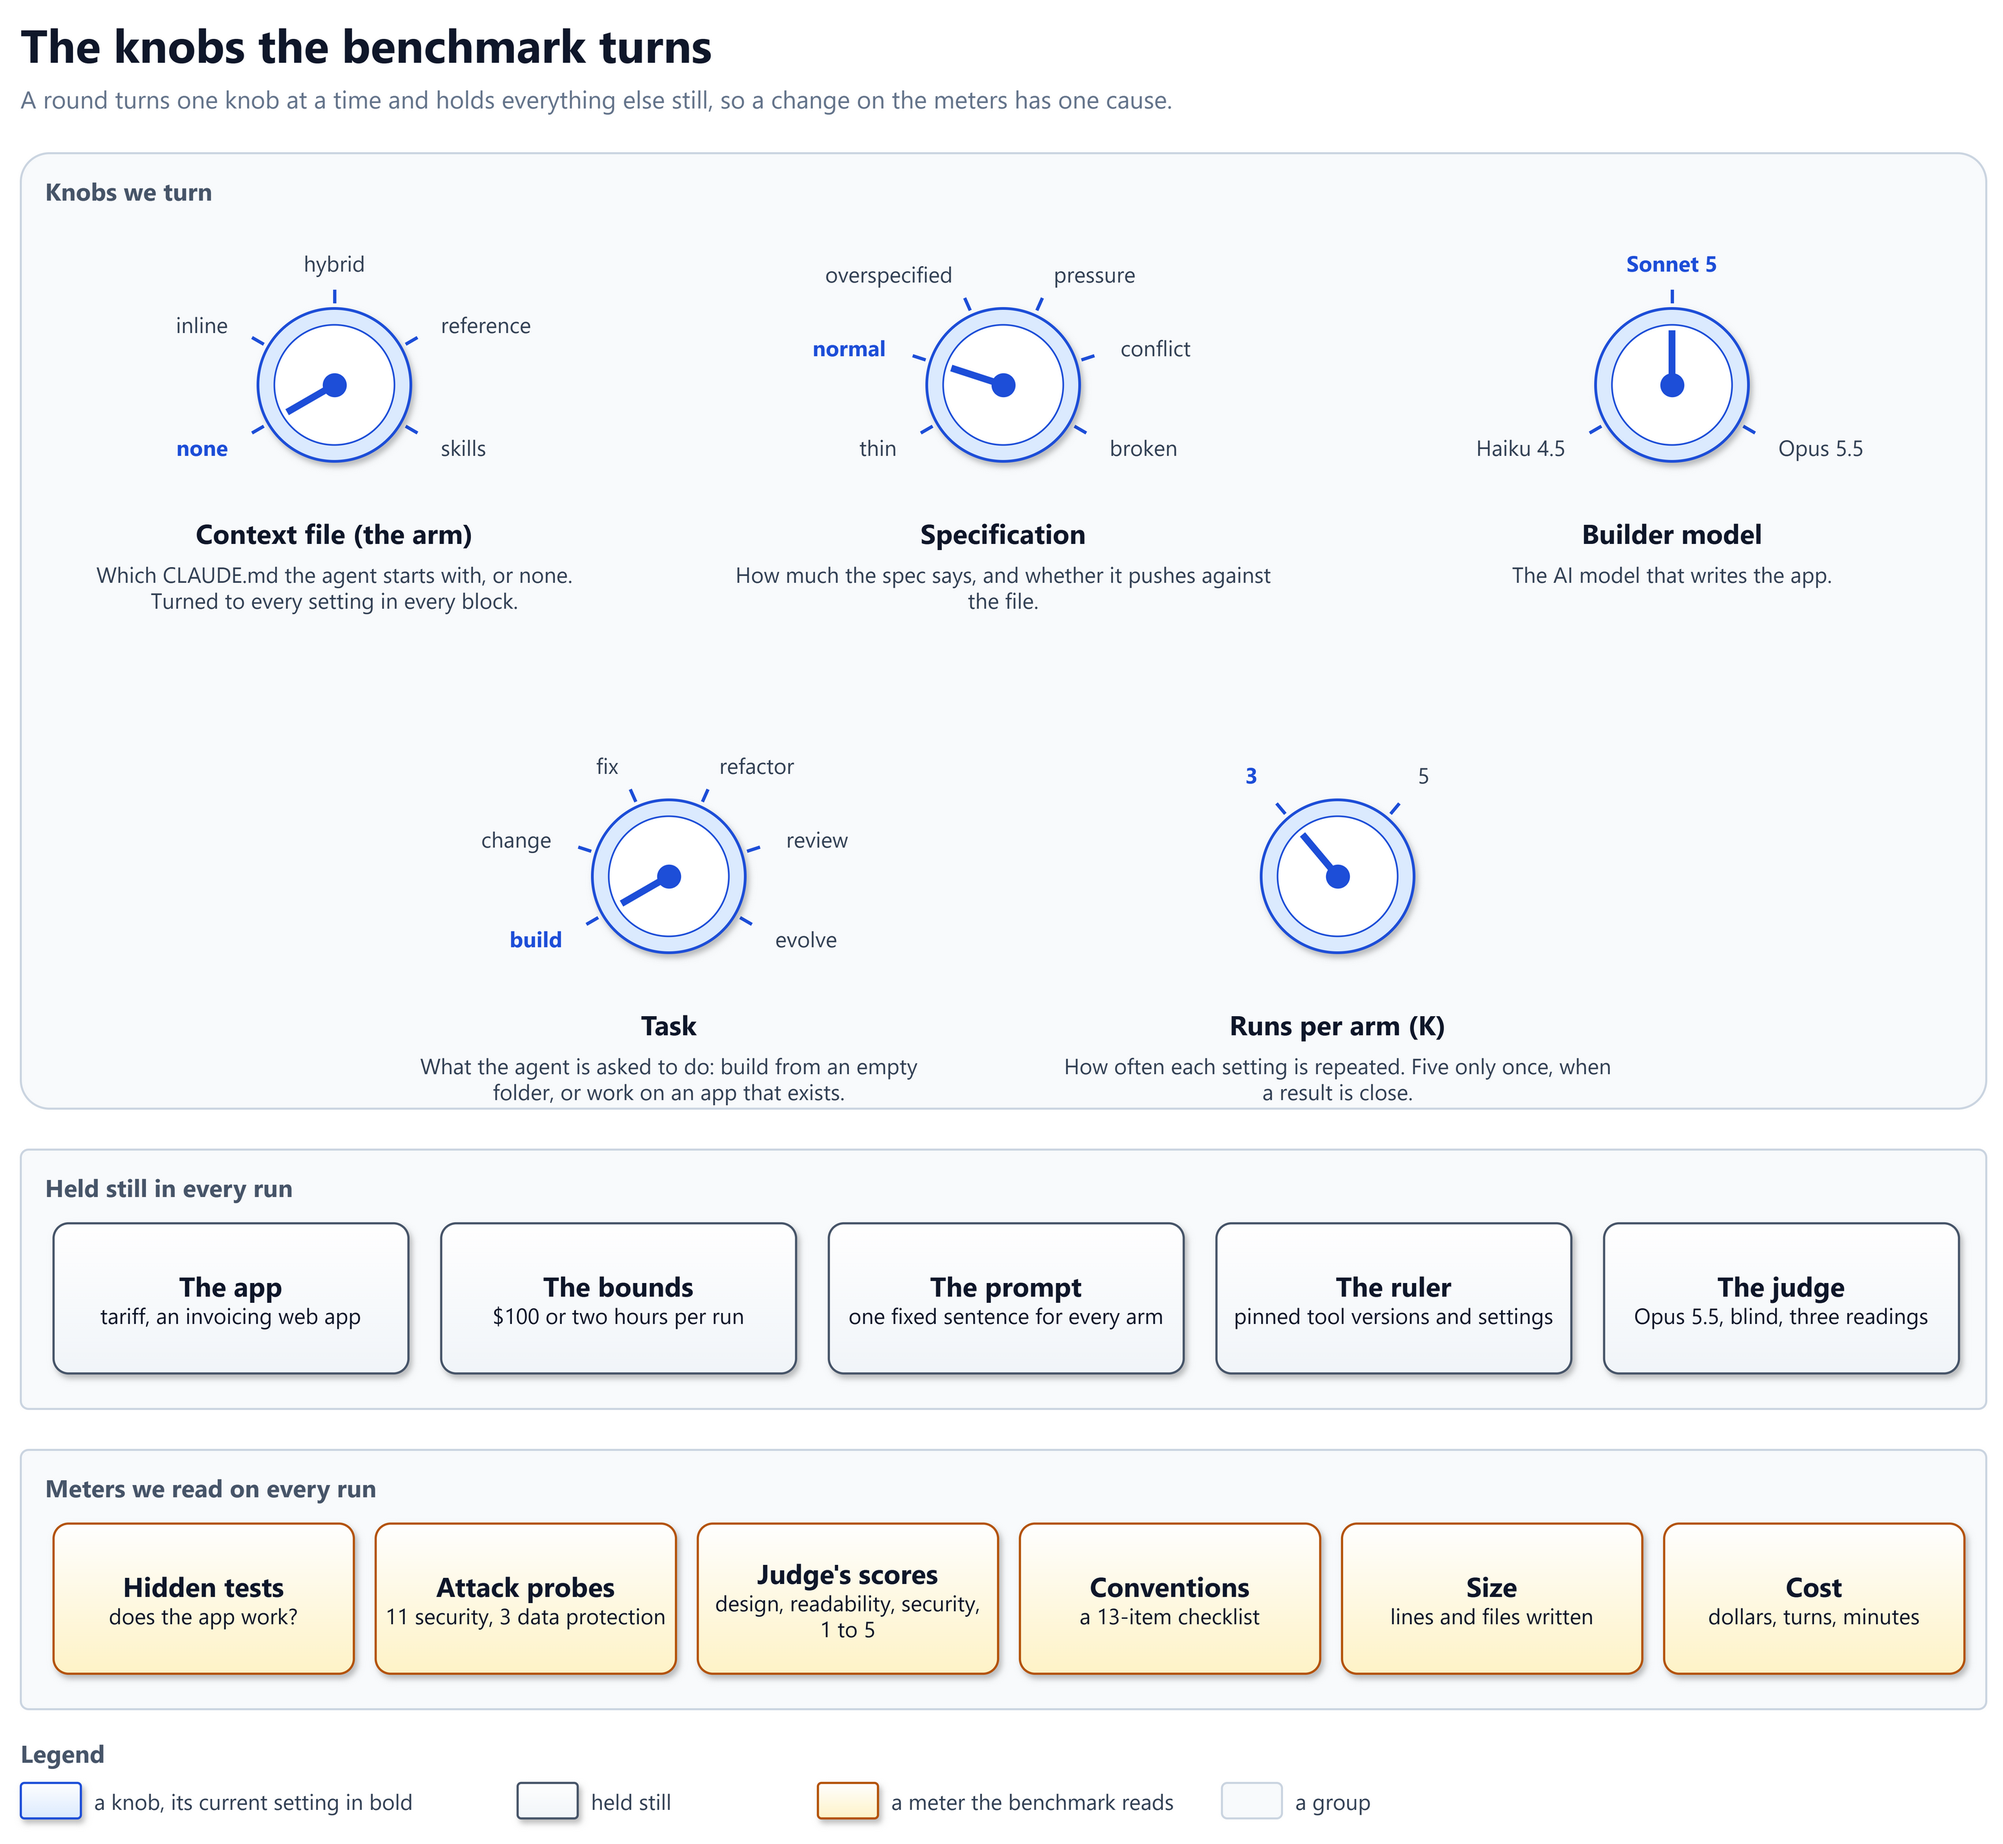
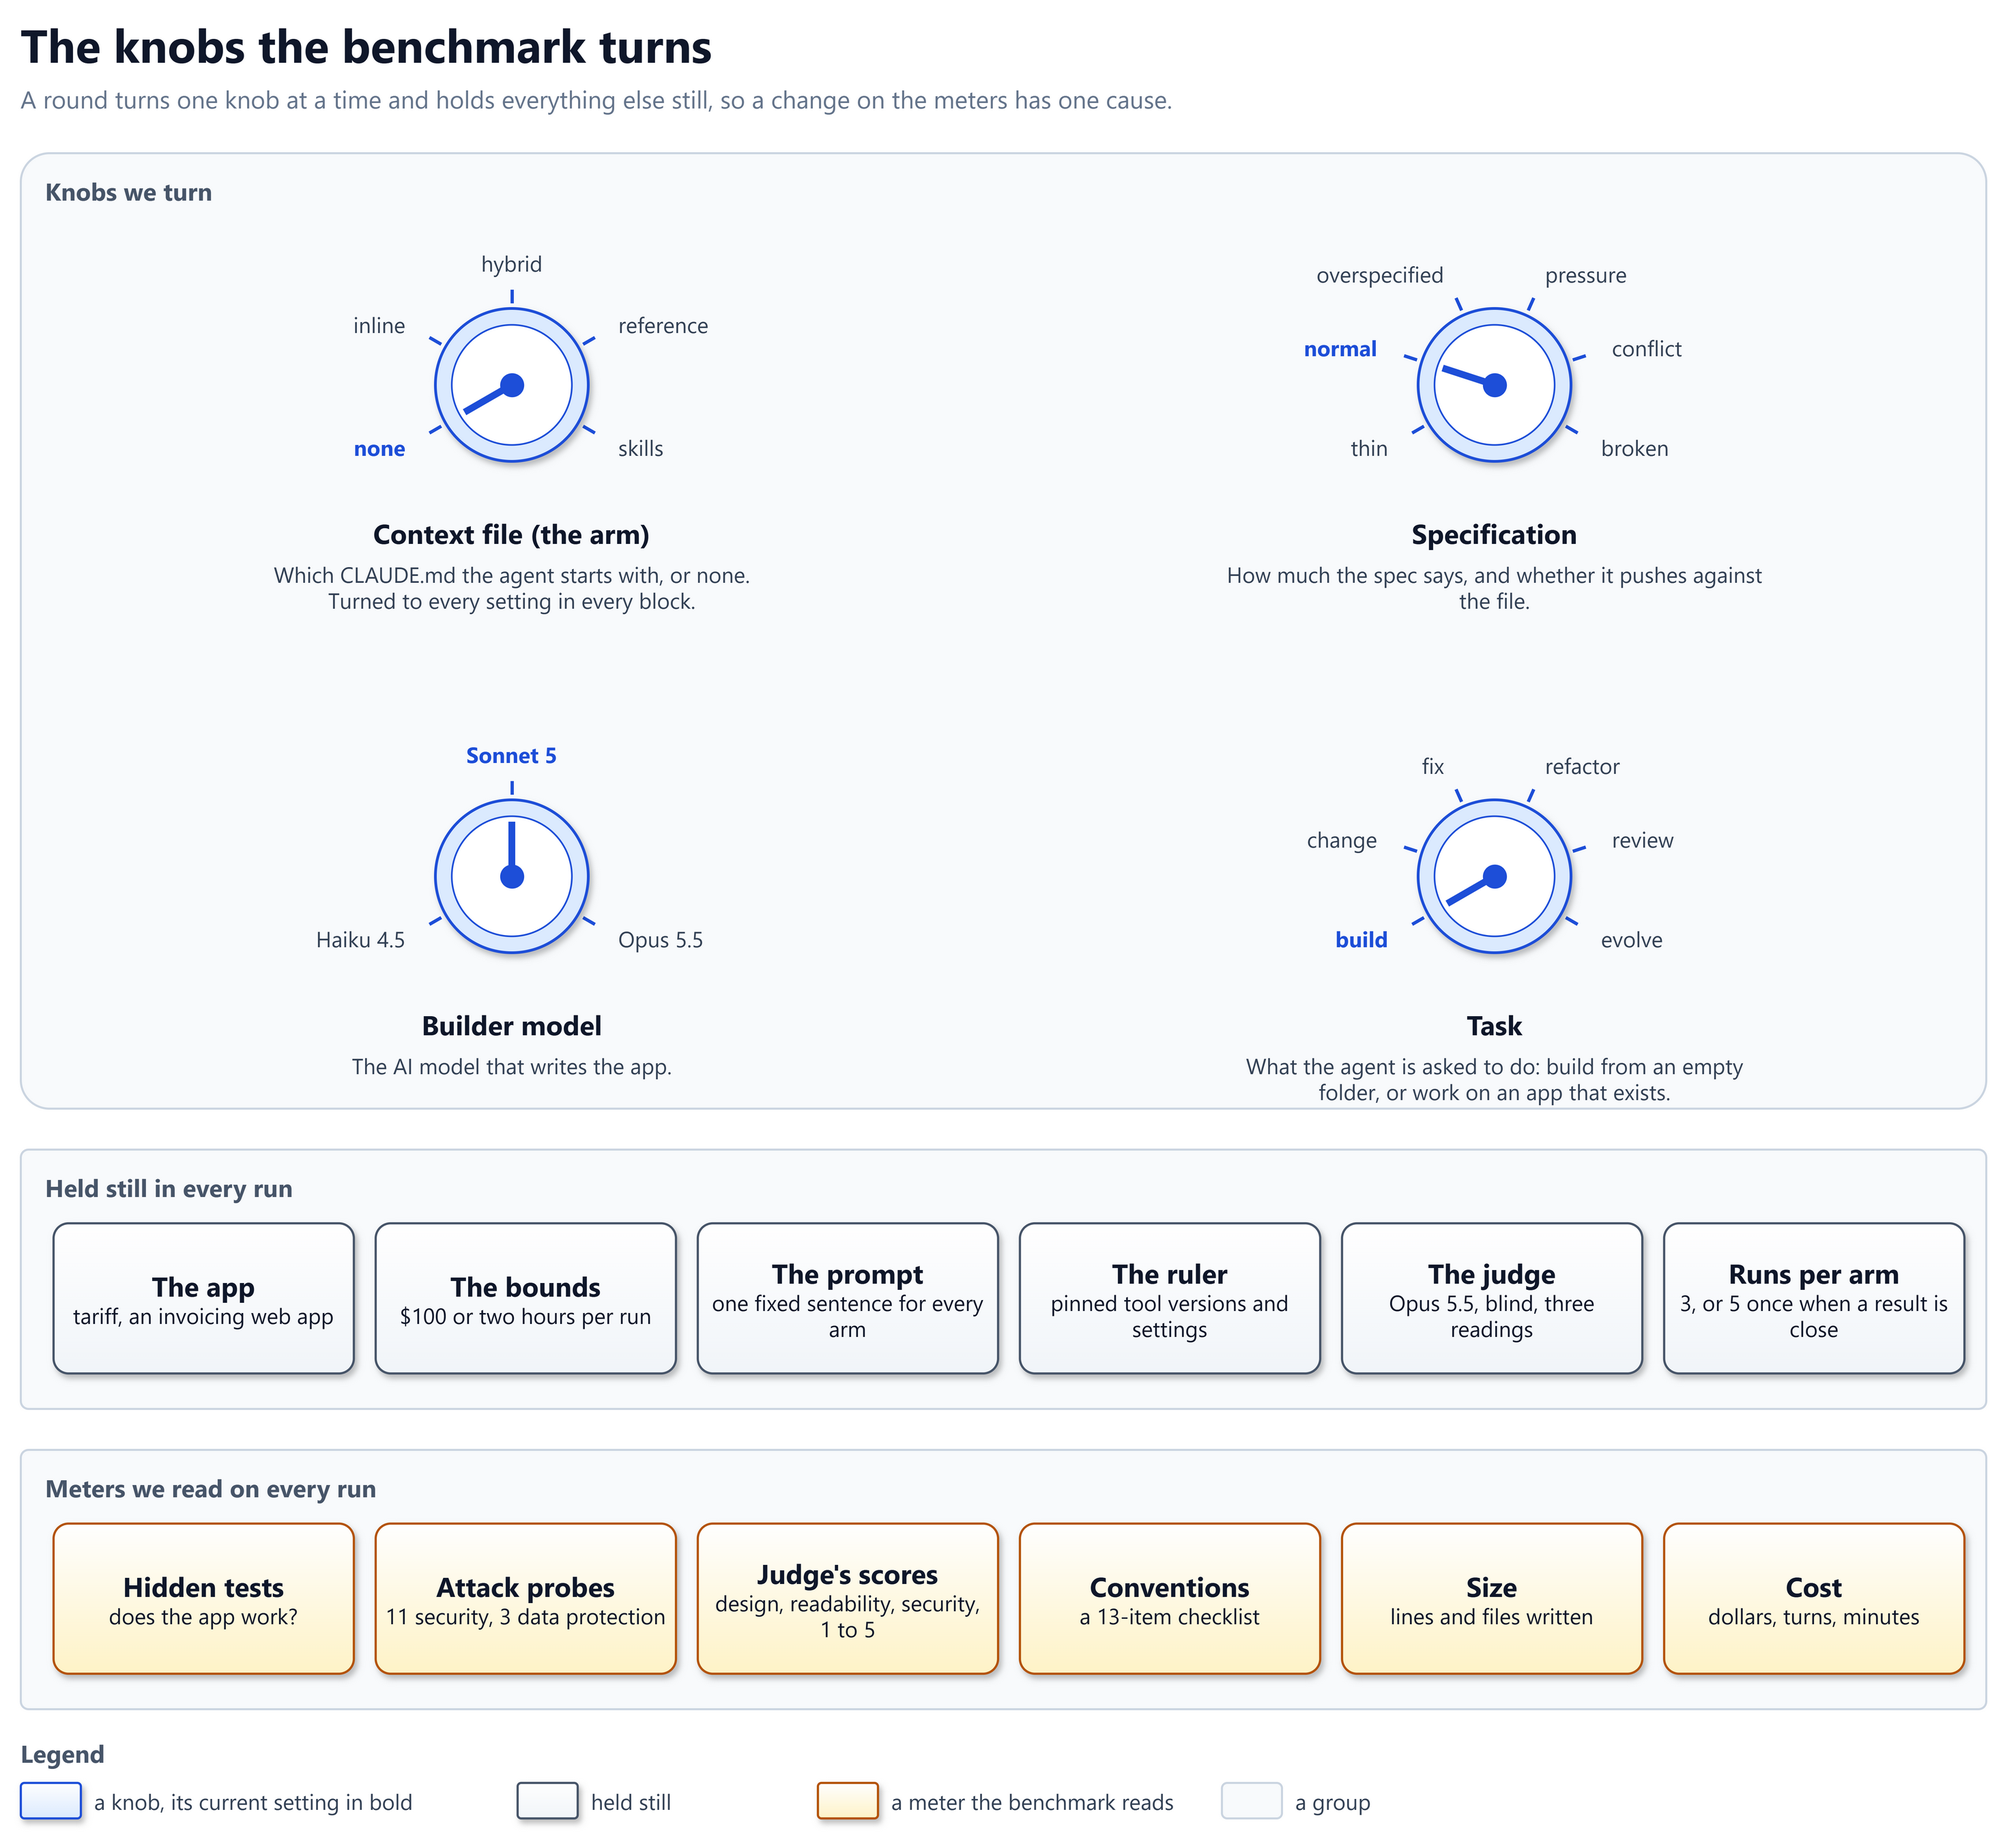
docs(primer): move runs per arm from the knobs to what is held still
K sets how much trust a result earns, not what is measured, and the
rules fix it at 3, or 5 once when a result is close. The knobs are now
a two-by-two grid: context file, spec, model and task.

Claude-Session: https://claude.ai/code/session_01HVh8GVGd72WUJ3BvM7TXQn

diff --git a/docs/primer.md b/docs/primer.md
@@ -46,7 +46,7 @@ one sitting and strict enough that a wrong cent shows.
 A round turns one knob at a time and holds everything else still. Then any
 change on the meters has one cause.
 
-![Five knobs the benchmark turns, each with its settings: the context file (none, inline, hybrid, reference, skills, with none selected), the specification (thin, normal, overspecified, pressure, conflict, broken, with normal selected), the builder model (Haiku 4.5, Sonnet 5, Opus 5.5, with Sonnet 5 selected), the task (build, change, fix, refactor, review, evolve, with build selected) and the runs per arm (3 or 5). Below them, what is held still in every run: the app, the bounds of $100 or two hours, the prompt, the ruler and the judge. Below that, the meters read on every run: hidden tests, attack probes, the judge's scores, conventions, size and cost](diagrams/knobs.png)
+![Four knobs the benchmark turns, each with its settings: the context file (none, inline, hybrid, reference, skills, with none selected), the specification (thin, normal, overspecified, pressure, conflict, broken, with normal selected), the builder model (Haiku 4.5, Sonnet 5, Opus 5.5, with Sonnet 5 selected) and the task (build, change, fix, refactor, review, evolve, with build selected). Below them, what is held still in every run: the app, the bounds of $100 or two hours, the prompt, the ruler, the judge and the runs per arm, 3 or 5 once when a result is close. Below that, the meters read on every run: hidden tests, attack probes, the judge's scores, conventions, size and cost](diagrams/knobs.png)
 
 | Knob | Settings | What turning it asks |
 | ---- | -------- | -------------------- |
@@ -54,7 +54,6 @@ change on the meters has one cause.
 | Specification | `thin`, `normal`, `overspecified`, `pressure`, `conflict`, `broken` | Does a file supply what the spec leaves out, and hold or yield when the spec pushes against it |
 | Builder model | Haiku 4.5, Sonnet 5, Opus 5.5 | Does a file help a weaker model more, and a stronger one less |
 | Task | build, change, fix, refactor, review, evolve | Does a file help beyond a first build, and over a project's life |
-| Runs per arm, K | 3, at most 5 | How steady a result is |
 
 The six specs:
 
